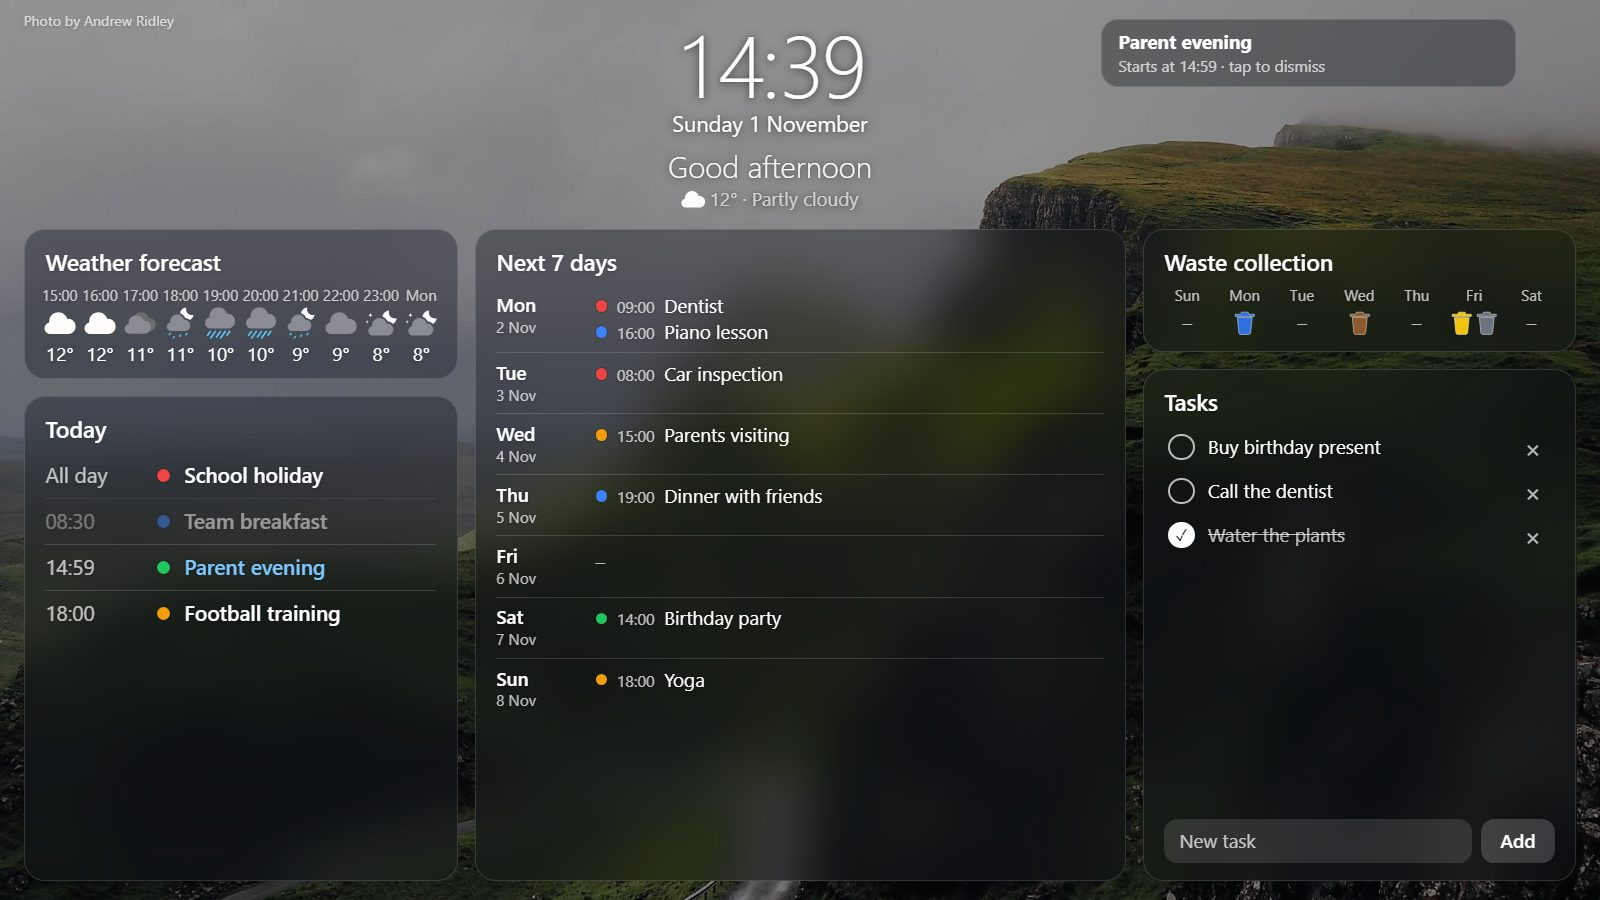
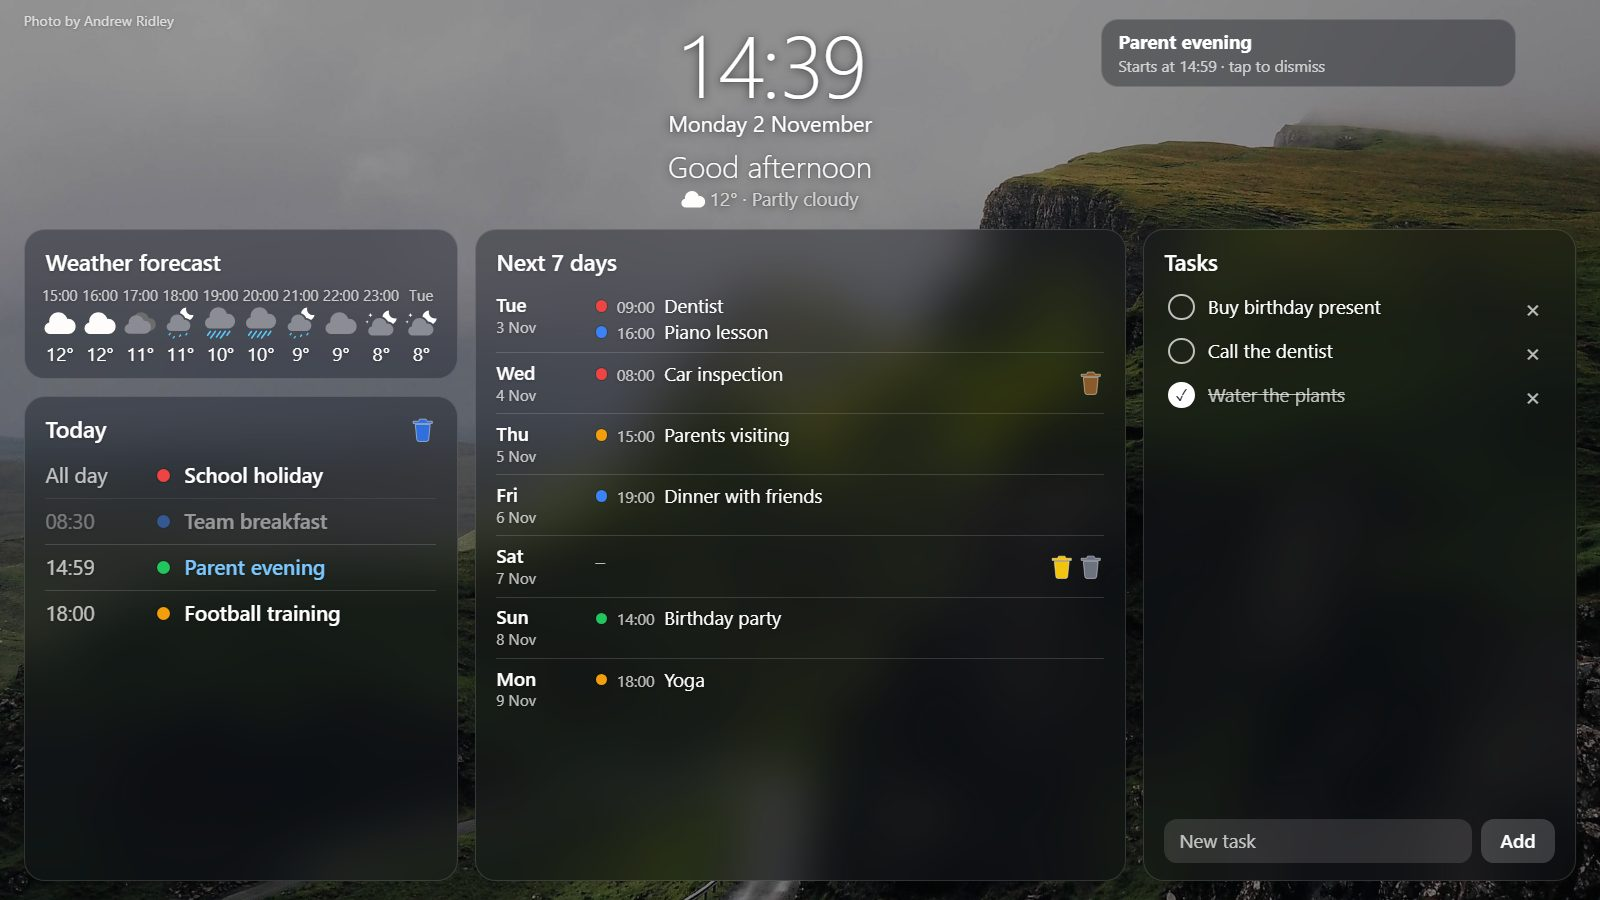
Show waste bins inside Today and Next 7 days (#19)
Remove the waste panel and show the bins at the right of Today's heading
and of each day in the week view. A new switch shows each bin on the day
before the collection instead of on the collection day. /api/waste now
covers today and the 7 days of the week view.

diff --git a/templates/kiosk.html b/templates/kiosk.html
@@ -44,17 +44,19 @@
   #week { flex-grow:1.4; }
   .column { flex:1 1 0; min-width:0; min-height:0; display:flex; flex-direction:column; }
   main > * + * { margin-left:.9rem; }
-  #forecast, #waste { flex:none; padding:.9rem .8rem .6rem; }
-  #forecast h2, #waste h2 { padding-left:.3rem; }
+  #forecast { flex:none; padding:.9rem .8rem .6rem; }
+  #forecast h2 { padding-left:.3rem; }
   .column section[hidden] { display:none; }
   .column section:not([hidden]) ~ section { margin-top:.9rem; }
-  #forecast-list, #waste-list { flex:none; display:flex; overflow-x:auto; overflow-y:hidden; }
+  #forecast-list { flex:none; display:flex; overflow-x:auto; overflow-y:hidden; }
   .slot { flex:1 0 2rem; text-align:center; white-space:nowrap; }
   .slot small { display:block; color:var(--muted); font-size:.8rem; }
   .weather-icon { display:block; width:1.7rem; height:1.7rem; margin:.1rem auto; }
   #weather .weather-icon { display:inline-block; width:1.3em; height:1.3em; margin:0 .2em 0 0; vertical-align:-.3em; }
-  .bins { display:flex; flex-wrap:wrap; justify-content:center; align-items:center; min-height:1.8rem; color:var(--muted); }
+  #today h2 { display:flex; justify-content:space-between; align-items:center; }
+  .bins { flex:none; display:flex; align-items:center; }
   .bin { width:1.35rem; height:1.35rem; fill:currentColor; stroke:rgba(255,255,255,.55); stroke-width:.8; }
+  .bin + .bin { margin-left:.2rem; }
   @media (orientation: portrait) {
     /* Today and tasks take what they need up to a limit; the week view gets all remaining space */
     main { flex-direction:column; }
@@ -88,6 +90,7 @@
   .day + .day { border-top:.5px solid var(--line); }
   .day h3 { flex:0 0 4.5em; margin:0; font-size:1rem; font-weight:600; line-height:1.3; }
   .day h3 small { display:block; color:var(--muted); font-weight:400; font-size:.8rem; }
+  .day .bins { margin-left:.5rem; }
   .day .item { display:flex; align-items:baseline; }
   .day .item > * + * { margin-left:.5rem; }
   .day .item time { color:var(--muted); font-size:.85rem; font-variant-numeric:tabular-nums; white-space:nowrap; }
@@ -169,16 +172,13 @@
   </header>
 
   <main class="{{ 'no-tasks' if not show_tasks }}">
-    {% set waste_panel %}<section id="waste" class="glass" hidden><h2>{{ _("Waste collection") }}</h2><ul id="waste-list"></ul></section>{% endset %}
     <div id="left" class="column">
       <section id="forecast" class="glass" hidden><h2>{{ _("Weather forecast") }}</h2><ul id="forecast-list"></ul></section>
-      {% if not show_tasks %}{{ waste_panel }}{% endif %}
-      <section id="today" class="glass"><h2>{{ _("Today") }}</h2><ul id="today-list"></ul></section>
+      <section id="today" class="glass"><h2>{{ _("Today") }}<span id="today-bins" class="bins"></span></h2><ul id="today-list"></ul></section>
     </div>
     <section id="week" class="glass"><h2>{{ _("Next 7 days") }}</h2><ul id="week-list"></ul></section>
     {% if show_tasks %}
     <div id="right" class="column">
-    {{ waste_panel }}
     <section id="tasks" class="glass">
       <h2>{{ _("Tasks") }}</h2>
       <ul id="task-list"></ul>
@@ -269,7 +269,7 @@
     const [month, day, year] = keyFormat.format(value).split('/');
     return `${year}-${month}-${day}`;
   };
-  let events = [];
+  let events = [], waste = {};
   const dismissed = new Set();
 
   function applyConfig() {
@@ -314,6 +314,7 @@
   function renderToday() {
     const now = Date.now(), key = dayKey(now), list = $('today-list');
     const today = events.filter(e => e.date <= key && e.end_date >= key);
+    fill($('today-bins'), ...(waste[key] || []).map(bin));
     const next = today.find(e => !e.all_day && e.start_ts * 1000 > now);
     fill(list, ...today.map(e => {
       const ended = !e.all_day && e.end_ts * 1000 < now;
@@ -341,6 +342,11 @@
       });
       if (!entries.length) items.append(make('div', 'empty', '–'));
       row.append(heading, items);
+      if (waste[key] && waste[key].length) {
+        const bins = make('span', 'bins');
+        bins.append(...waste[key].map(bin));
+        row.append(bins);
+      }
       return row;
     }));
   }
@@ -419,14 +425,9 @@
   async function loadWaste() {
     const data = await getJson('/api/waste');
     if (!data) return;
-    const days = data.enabled ? data.days : [];
-    fill($('waste-list'), ...days.map(d => {
-      const box = make('li', 'slot'), bins = make('div', 'bins', d.bins.length ? undefined : '–');
-      d.bins.forEach(item => bins.append(bin(item)));
-      box.append(make('small', '', weekdayLabel.format(addDays(d.date, 0))), bins);
-      return box;
-    }));
-    $('waste').hidden = !days.length;
+    waste = {};
+    (data.enabled ? data.days : []).forEach(d => { waste[d.date] = d.bins; });
+    render();
   }
 
   let shownPhoto = null;

diff --git a/templates/settings.html b/templates/settings.html
@@ -231,9 +231,15 @@
       {% for title, color in waste %}
       <div class="row"><label for="waste_color_{{ loop.index0 }}">{{ title }}</label><input id="waste_color_{{ loop.index0 }}" class="swatch" type="color" name="waste_color_{{ loop.index0 }}" value="{{ color }}"></div>
       {% endfor %}
-      {% if waste %}<button class="action destructive" name="remove" value="1">{{ _("Remove calendar") }}</button>{% endif %}
+      {% if waste %}
+      <div class="row">
+        <label for="waste_day_before">{{ _("Show bins one day earlier") }}</label>
+        <span class="switch"><input id="waste_day_before" type="checkbox" name="waste_day_before" value="1" {{ 'checked' if s.waste_day_before }}><span></span></span>
+      </div>
+      <button class="action destructive" name="remove" value="1">{{ _("Remove calendar") }}</button>
+      {% endif %}
     </div>
-    <p>{{ _("Each collection in the file gets its own color. The homepage shows a small bin on collection days.") }}</p>
+    <p>{{ _("Each collection in the file gets its own color. The homepage shows a small bin next to the day.") }}</p>
   </form>
 
   <section class="group">

diff --git a/app.py b/app.py
@@ -118,6 +118,7 @@ DEFAULTS = {
     "weather_forecast": "off",  # off | hours | days
     "waste_enabled": False,
     "waste_colors": {},         # collection name -> #rrggbb
+    "waste_day_before": False,  # show a bin the day before the collection instead of on it
     "background_type": "photo",  # photo | color
     "background_color": "#1c2733",
     "background_every": "hour",  # hour | day | fixed | custom
@@ -770,9 +771,10 @@ def settings_display():
 
 
 def waste_stamp():
-    """Changes with the file and the colors, so open homepages know when to redraw the bins. Reveals neither."""
+    """Changes with the file, colors and timing, so open homepages know when to redraw the bins. Reveals neither."""
     modified = WASTE_FILE.stat().st_mtime if WASTE_FILE.exists() else 0
-    return hashlib.sha256(f"{modified}{sorted(settings['waste_colors'].items())}".encode()).hexdigest()[:12]
+    state = f"{modified}{sorted(settings['waste_colors'].items())}{settings['waste_day_before']}"
+    return hashlib.sha256(state.encode()).hexdigest()[:12]
 
 
 def waste_calendar():
@@ -794,13 +796,14 @@ def waste_color(title):
 
 
 def waste_days():
-    """The collections of the next 7 days, today first, one entry per day."""
+    """The bins to show on today and the 7 days after it, one entry per day."""
     today = date.today()
-    days = {today + timedelta(days=i): [] for i in range(7)}
+    early = timedelta(days=1 if settings["waste_day_before"] else 0)
+    days = {today + timedelta(days=i): [] for i in range(8)}
     calendar = waste_calendar()
-    for event in recurring_ical_events.of(calendar).between(today, today + timedelta(days=7)) if calendar else []:
+    for event in recurring_ical_events.of(calendar).between(today, today + timedelta(days=8) + early) if calendar else []:
         start = _local(event.decoded("DTSTART"))
-        day = start.date() if isinstance(start, datetime) else start
+        day = (start.date() if isinstance(start, datetime) else start) - early
         title = str(event.get("SUMMARY", "")).strip()
         if day in days and title and title not in [item["title"] for item in days[day]]:
             days[day].append({"title": title, "color": waste_color(title)})
@@ -815,6 +818,7 @@ def settings_waste():
     if request.form.get("remove"):
         WASTE_FILE.unlink(missing_ok=True)
         settings["waste_colors"] = {}
+        settings["waste_day_before"] = False
         enabled = False
     elif upload and upload.filename:
         raw = upload.read(WASTE_MAX_BYTES + 1)
@@ -836,6 +840,8 @@ def settings_waste():
         if re.fullmatch(r"#[0-9a-fA-F]{6}", color):
             settings["waste_colors"][title] = color
     settings["waste_enabled"] = enabled
+    if not request.form.get("remove"):
+        settings["waste_day_before"] = bool(request.form.get("waste_day_before"))
     save_settings(settings)
     if request.headers.get("X-Autosave"):
         return jsonify(message=_("Settings saved."))

diff --git a/tests/smoke_test.py b/tests/smoke_test.py
@@ -182,10 +182,17 @@ assert send(b"x" * (A.WASTE_MAX_BYTES + 1)).status_code == 302 and not A.WASTE_F
 send(waste_ics.encode())
 assert A.settings["waste_enabled"] is True and b"Biotonne" not in A.WASTE_FILE.read_bytes()   # encrypted
 w = c.get("/api/waste").get_json()
-assert len(w["days"]) == 7 and w["days"][1]["bins"] == [] and [b["title"] for b in w["days"][2]["bins"]] == ["Biotonne"]
+assert len(w["days"]) == 8 and w["days"][1]["bins"] == [] and [b["title"] for b in w["days"][2]["bins"]] == ["Biotonne"]
 assert {b["title"]: b["color"] for b in w["days"][0]["bins"]} == {"Altpapier": "#2f6fde", "Biotonne": "#8b5a2b"}
 page = c.get("/settings").data.decode()
-assert "Altpapier" in page and 'name="waste_color_1"' in page
+assert "Altpapier" in page and 'name="waste_color_1"' in page and 'name="waste_day_before"' in page
+stamp = c.get("/api/config").get_json()["wasteStamp"]
+c.post("/settings/waste", data={"waste_enabled": "1", "waste_day_before": "1"}, headers={**H, "X-Autosave": "1"})
+w = c.get("/api/waste").get_json()
+assert c.get("/api/config").get_json()["wasteStamp"] != stamp and w["days"][0]["bins"] == []
+assert [b["title"] for b in w["days"][1]["bins"]] == ["Biotonne"] and [b["title"] for b in w["days"][7]["bins"]] == ["Biotonne"]
+c.post("/settings/waste", data={"waste_enabled": "1"}, headers={**H, "X-Autosave": "1"})
+assert A.settings["waste_day_before"] is False and c.get("/api/waste").get_json()["days"][7]["bins"] == []
 stamp = c.get("/api/config").get_json()["wasteStamp"]
 r = c.post("/settings/waste", data={"waste_enabled": "1", "waste_color_0": "#112233", "waste_color_1": "bad"}, headers=H)
 assert r.headers["Location"].endswith("/settings?updated=1") and c.get("/api/config").get_json()["wasteStamp"] != stamp
@@ -197,7 +204,7 @@ assert c.get("/api/waste").get_json()["enabled"] is True
 assert A.settings["waste_colors"] == {"Altpapier": "#112233"} and c.get("/api/config").get_json()["waste"] is True
 c.post("/settings/waste", data={"remove": "1"}, headers=H)
 assert not A.WASTE_FILE.exists() and A.settings["waste_enabled"] is False and A.settings["waste_colors"] == {}
-ok("waste collection: upload validated, stored encrypted, colors, 7 days, remove")
+ok("waste collection: upload validated, stored encrypted, colors, 8 days, one day earlier, remove")
 
 # ---- Homepage appearance: background, weather and greeting, without any network access
 with mock.patch.object(A, "fetch_json", return_value=[{"id": "7", "author": "Ann", "width": 300, "height": 200, "url": "https://u/7"}]) as f:

diff --git a/i18n.py b/i18n.py
@@ -100,8 +100,9 @@ GERMAN = {
     "Show waste collection": "Müllabfuhr anzeigen",
     "Calendar file (.ics)": "Kalenderdatei (.ics)",
     "Remove calendar": "Kalender entfernen",
-    "Each collection in the file gets its own color. The homepage shows a small bin on collection days.":
-        "Jede Abfuhr aus der Datei bekommt eine eigene Farbe. Die Startseite zeigt an den Abfuhrtagen eine kleine Tonne.",
+    "Show bins one day earlier": "Tonnen einen Tag vorher anzeigen",
+    "Each collection in the file gets its own color. The homepage shows a small bin next to the day.":
+        "Jede Abfuhr aus der Datei bekommt eine eigene Farbe. Die Startseite zeigt neben dem Tag eine kleine Tonne.",
     "The file is too large.": "Die Datei ist zu groß.",
     "The file is not a usable calendar.": "Die Datei ist kein brauchbarer Kalender.",
     "Font": "Schrift",

diff --git a/README.md b/README.md
@@ -23,7 +23,7 @@ With tasks, reminders, a weather forecast, waste collection and beautiful photo 
 
 <br>
 
-<img src="docs/homepage-landscape.jpg" alt="Daytree homepage with a weather forecast, today's agenda, the next 7 days, waste collection and tasks on a photo background" width="100%">
+<img src="docs/homepage-landscape.jpg" alt="Daytree homepage with a weather forecast, today's agenda and the next 7 days with waste bins, and tasks on a photo background" width="100%">
 
 </div>
 
@@ -45,7 +45,8 @@ extra account, and also keeps your calendar in sync with Outlook and Google Cale
 - **Reminders:** a notice appears 30 minutes before an event starts.
 - **Weather and greeting:** current weather for your town and a personal greeting. No API key needed.
 - **Weather forecast:** the next 10 hours or 7 days, with day and night icons.
-- **Waste collection:** upload an ICS file, pick a color per collection and see small bins for the next 7 days.
+- **Waste collection:** upload an ICS file, pick a color per collection and see small bins next to the days, if you
+  like one day early as a reminder to put them out.
 - **Works on any screen:** landscape on a TV, portrait on a monitor or tablet, and a scrolling layout on phones.
   Panels adapt to their content, so a quiet day leaves more room for the week ahead.
 - **Always up to date:** an open page picks up changed settings and app updates by itself.

diff --git a/CHANGELOG.md b/CHANGELOG.md
@@ -7,6 +7,14 @@ The format is based on [Keep a Changelog](https://keepachangelog.com/en/1.1.0/),
 
 ## [Unreleased]
 
+### Changed
+
+- Waste bins moved from their own panel into Today and Next 7 days, at the right of each day.
+
+### Added
+
+- A switch shows the bins one day earlier, on the day they have to be put out.
+
 ## [0.12.0] - 2026-11-01
 
 Daytree now shows when the bins go out.
